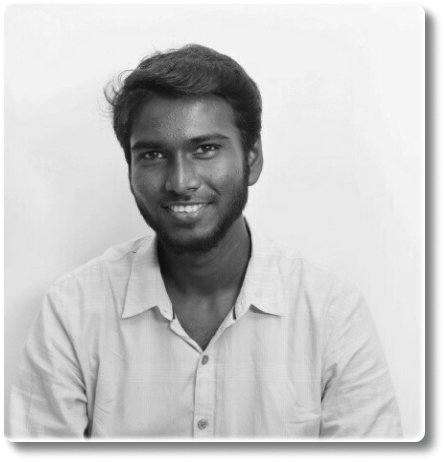
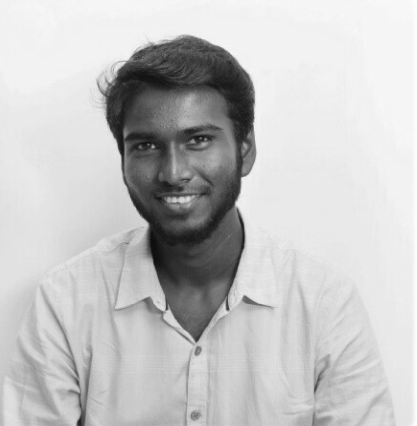
Included font-awesome brands, left nav done

diff --git a/src/views/Home/Home.html b/src/views/Home/Home.html
@@ -1,14 +1,14 @@
-<div class="home py-9 py-xl-12">
-  <div class="color-wrap position-absolute top-0 bottom-0 left-0 right-0 mr-0 mx-lg-auto zindex-0 mt-12 d-none d-lg-block">
+<div class="home">
+  <div class="color-wrap position-absolute mx-lg-auto d-none d-lg-block">
     <div class="row no-gutters position-absolute top-0 bottom-0 left-0 right-0">
-      <div class="col-3 no-gutters-child offset-9 position-absolute top-0 bottom-0 left-0 right-0">
+      <div class="col-3 no-gutters-child offset-7 position-absolute top-0 bottom-0 left-0 right-0">
         <div class="overlay overlay-advanced mb-n9 mb-xl-n12 ml-4"></div>
       </div>
     </div>
   </div>
   <div class="align-self-center py-9 py-xl-12 text-container-wrap">
     <div class="row align-items-center flex-container">
-      <div class="col-lg-5 text-white mb-8 mb-lg-0 left-align-text">
+      <div class="col-lg-6 col-md-5 home-text text-white mb-8 mb-lg-0 left-align-text">
         <h2 class="title-text">
           Hi, I'm <span class="green">Serlin</span>
         </h2>
@@ -19,8 +19,12 @@
           Knack of building applications with front and back end operations.
         </h4>
       </div>
-      <div class="col-lg-5 offset-lg-2">
-        <img class="img-fluid d-block w-50 w-lg-100 rounded-3x shadow-light-lg mx-auto" src="../../assets/images/profile_pic.png" alt="">
+      <div class="col-lg-6  col-md-7">
+        <div class="prof-pic-outline">
+          <img class="img-fluid d-block w-lg-100 shadow-light-lg mx-auto" 
+            src="../../assets/images/profile_pic.png" 
+            alt="Serlin Tamilselvam">
+        </div>
       </div>
     </div>
   </div>

diff --git a/src/views/Home/Home.css b/src/views/Home/Home.css
@@ -50,7 +50,8 @@
   user-select: none;
   background-color: #65D183;
   margin-bottom: -7rem!important;
-  /* width: 33vw; */
+  width: 35vw;
+  border-radius: 0.75rem;
 }
 
 .no-gutters {
@@ -69,7 +70,9 @@
 .img-fluid {
   max-width: 100%;
   height: auto;
-  width: 70%;
+  box-shadow: 0 0.55rem 0.75rem 2px #1f2235;
+  border-radius: 0.5rem;
+  transition: transform 1s;
 }
 
 .flex-container {
@@ -82,4 +85,28 @@
 .text-container-wrap {
   position: relative;
   z-index: 1;
+}
+
+h2, h3, h4 {
+  padding: 0 0 2rem 0;
+  line-height: 2rem;
+  letter-spacing: .15rem;
+  margin: 0;
+}
+
+.prof-pic-outline {
+  margin: 0 auto;
+  border: 0.15rem solid;
+  width: 85%;
+  float: left;
+  padding: 2rem;
+  max-width: -webkit-max-content;
+  max-width: -moz-max-content;
+  max-width: max-content;
+  border-radius: 0.5rem;
+}
+
+.img-fluid:hover {
+  transform: scale(1.1);
+  box-shadow: none;
 }

diff --git a/src/components/Leftnav/Leftnav.css b/src/components/Leftnav/Leftnav.css
@@ -1,0 +1,39 @@
+.left-nav {
+    top: 40%;
+    position: fixed;
+    overflow: hidden;
+    z-index: 900;
+    right: 0.5rem;
+    width: 8rem;
+}
+
+.profile-links a {
+    display: block;
+    transform: translate(5.5rem);
+    transition: all .5s;
+    padding: 0.5rem 0rem 0.5rem 0.5rem;
+    text-decoration: none;
+    color: #fff;
+    text-align: left;
+}
+
+.profile-links svg {
+    transition: all .5s;
+}
+
+.profile-links a:hover svg {
+    transform: rotate(1turn);
+    color: #fff;
+}
+
+.profile-links a:hover {
+    border-radius: 1.5rem;
+    transform: translate(1rem);
+    border: .5px solid #65D183;
+}
+
+.profile-links a span {
+    position: absolute;
+    top: 0.75rem;
+    right: 1rem;
+}

diff --git a/src/components/Leftnav/Leftnav.html b/src/components/Leftnav/Leftnav.html
@@ -1,0 +1,13 @@
+<div class="left-nav">
+    <div class="profile-links">
+        <a v-bind:href="links.github">
+            <font-awesome-icon :icon="['fab', 'github']" size="2x" color="white" /><span> GitHub</span>
+        </a>
+        <a v-bind:href="links.linkedIn">
+            <font-awesome-icon :icon="['fab', 'linkedin']" size="2x" color="#007bff" /><span> LinkedIn</span>
+        </a>
+        <a v-bind:href="links.instagram">
+            <font-awesome-icon :icon="['fab', 'instagram']" size="2x" color="red" /><span> Instagram</span>
+        </a>
+    </div>
+</div>

diff --git a/src/components/Header/Header.css b/src/components/Header/Header.css
@@ -1,13 +1,19 @@
 .header {
-    width: 85%;
+    width: 100%;
     margin: 0 auto;
+    position: sticky;
+    top: 0;
+    z-index: 999;
+    background-color: #1D2231;
 }
 
 .header-container {
     display: flex;
     justify-content: center;
-    height: 140px;
+    height: 120px;
     color: #000;
+    width: 85%;
+    margin: 0 auto;
 }
 
 .header-parent {
@@ -51,8 +57,9 @@
 }
 
 @media only screen and (max-width: 970px) {
-    .header {
+    .header-container {
         width: 100%;
+        height: 100px;
     }
     .header-hamburger {
         display: block;

diff --git a/src/main.js b/src/main.js
@@ -4,8 +4,9 @@ import router from './router'
 import { library } from '@fortawesome/fontawesome-svg-core'
 import { FontAwesomeIcon } from '@fortawesome/vue-fontawesome'
 import { faBars } from '@fortawesome/free-solid-svg-icons'
+import { faGithub, faInstagram, faLinkedin } from '@fortawesome/free-brands-svg-icons'
 
-library.add(faBars)
+library.add(faBars, faGithub, faInstagram, faLinkedin)
 
 Vue.component('font-awesome-icon', FontAwesomeIcon)
 

diff --git a/src/components/Leftnav/Leftnav.js b/src/components/Leftnav/Leftnav.js
@@ -1,0 +1,14 @@
+export default {
+    name: "Leftnav",
+    data() {
+        return {
+            links: {
+                github: "https://github.com/serlintamilselvam",
+                linkedIn: "https://www.linkedin.com/in/serlin-tamilselvam",
+                instagram: "https://www.linkedin.com/in/serlin-tamilselvam",
+            }
+        }
+    },
+    props: {
+    }
+}

diff --git a/src/App/App.js b/src/App/App.js
@@ -6,11 +6,13 @@ import 'bootstrap/dist/css/bootstrap.css'
 import 'bootstrap-vue/dist/bootstrap-vue.css'
 
 import Header from '../components/Header/Header.vue'
+import Leftnav from '../components/Leftnav/Leftnav.vue'
 
 export default {
     name: 'App',
     components: {
-      Header
+      Header,
+      Leftnav
     }
   }
 

diff --git a/src/components/Leftnav/Leftnav.vue b/src/components/Leftnav/Leftnav.vue
@@ -1,0 +1,7 @@
+<template src="./Leftnav.html" />
+
+<script src="./Leftnav.js" />
+
+<!-- Add "scoped" attribute to limit CSS to this component only -->
+
+<style src="./Leftnav.css" scoped></style>

diff --git a/src/App/App.html b/src/App/App.html
@@ -1,6 +1,7 @@
 <div id="app">
     <div id="app">
             <Header />
+            <Leftnav class="d-none d-md-block" />
         <router-view/>
     </div>
 </div>

diff --git a/src/App/App.css b/src/App/App.css
@@ -8,7 +8,6 @@
 
 body {
   background-color: #1D2231;
-  overflow: hidden;
 }
 
 #nav {
